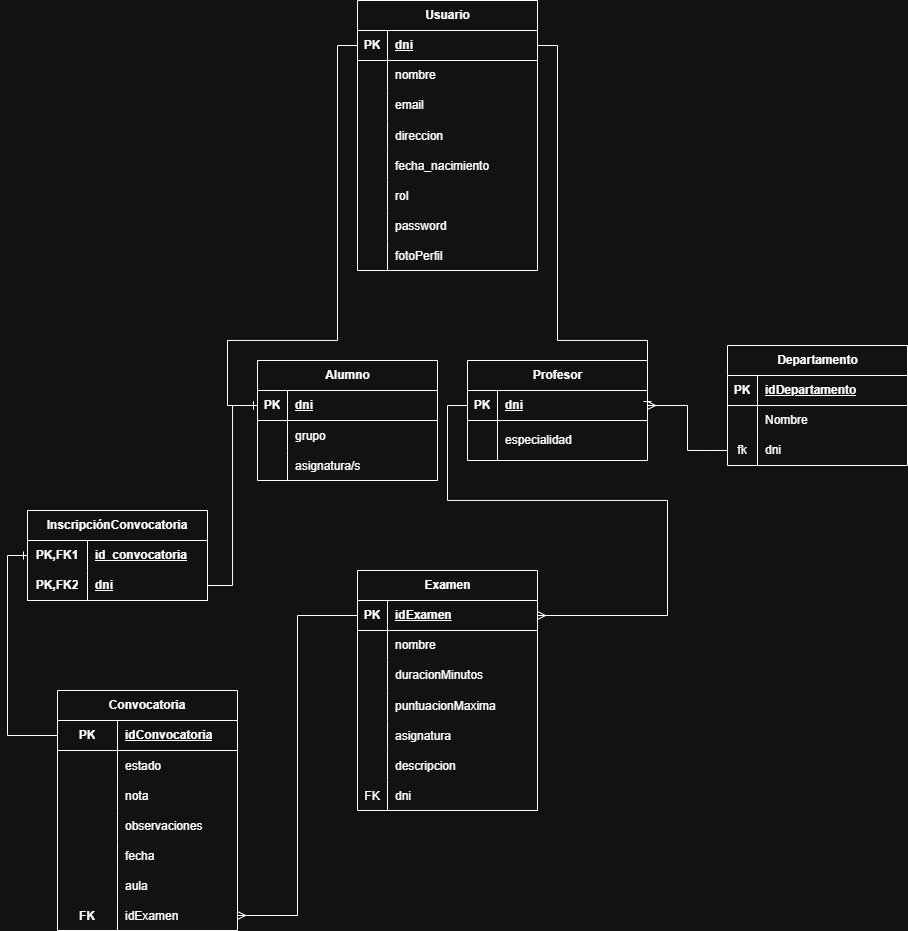
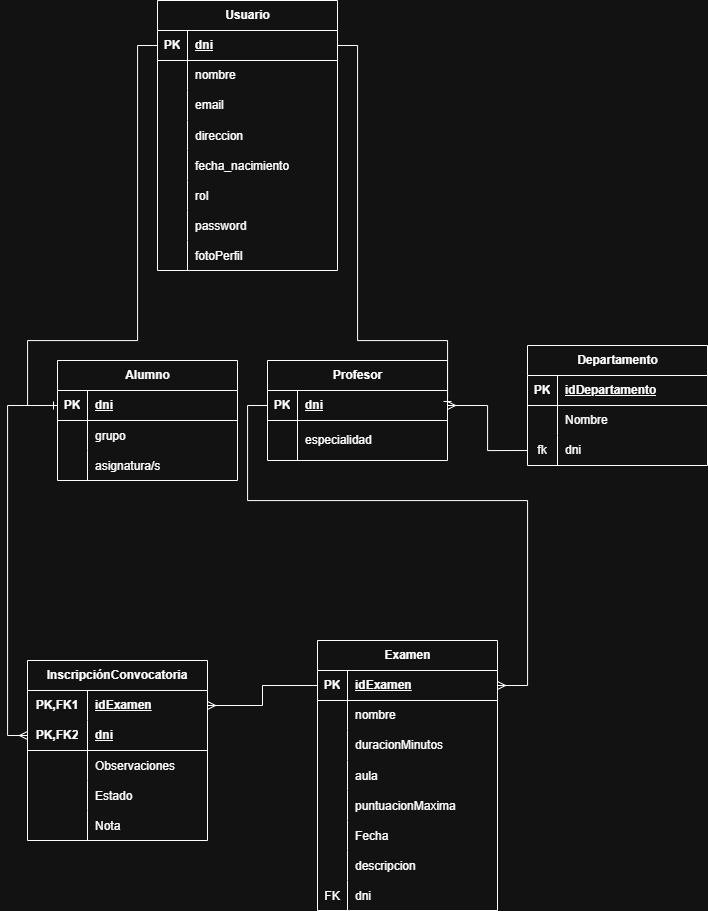
fix: se agrega la asociacion entre profesor y departamento

diff --git a/ExamTrack/src/main/java/com/salesianos/dam/examtrack/model/Departamento.java b/ExamTrack/src/main/java/com/salesianos/dam/examtrack/model/Departamento.java
@@ -1,0 +1,38 @@
+package com.salesianos.dam.examtrack.model;
+
+import java.util.ArrayList;
+import java.util.List;
+
+import jakarta.persistence.Column;
+import jakarta.persistence.Entity;
+import jakarta.persistence.FetchType;
+import jakarta.persistence.GeneratedValue;
+import jakarta.persistence.Id;
+import jakarta.persistence.OneToMany;
+import lombok.AllArgsConstructor;
+import lombok.Builder;
+import lombok.Data;
+import lombok.EqualsAndHashCode;
+import lombok.NoArgsConstructor;
+import lombok.ToString;
+
+@Entity
+@AllArgsConstructor
+@NoArgsConstructor
+@Data
+public class Departamento {
+    
+    @Id
+    @GeneratedValue
+    @Column(nullable = false) 
+    private Long idDepartamento;
+
+    private String nombre;
+
+    @OneToMany (mappedBy = "departamento", fetch = FetchType.EAGER)
+    @EqualsAndHashCode.Exclude
+    @ToString.Exclude
+    private List <Profesor> listaProfesores = new ArrayList<>();
+
+    
+}

diff --git a/ExamTrack/src/main/java/com/salesianos/dam/examtrack/model/Profesor.java b/ExamTrack/src/main/java/com/salesianos/dam/examtrack/model/Profesor.java
@@ -5,6 +5,9 @@ import java.util.List;
 
 import jakarta.persistence.Entity;
 import jakarta.persistence.FetchType;
+import jakarta.persistence.ForeignKey;
+import jakarta.persistence.JoinColumn;
+import jakarta.persistence.ManyToOne;
 import jakarta.persistence.OneToMany;
 import lombok.AllArgsConstructor;
 import lombok.EqualsAndHashCode;
@@ -30,6 +33,25 @@ public class Profesor extends Usuario {
     @OneToMany (mappedBy = "profesor", fetch = FetchType.EAGER)
     @ToString.Exclude
     private List <Examen> examen = new ArrayList<>();
+
+
+    @ManyToOne (fetch = FetchType.EAGER)
+    @JoinColumn (name = "id_departamento",
+        foreignKey = @ForeignKey (name = "fk_departamento_profesor"))
+    private Departamento departamento;
+
+    /*Metodos helpers para la asociacion bidireccional */
+    public void addToDepartamento (Departamento departamento) {
+
+        this.departamento = departamento;
+        departamento.getListaProfesores().add(this);
+    }
+
+    public void removeToProfesor (Profesor profesor) {
+        departamento.getListaProfesores().remove(this);
+        this.departamento = null;
+    }
+
 
     @Override
     public void depurarDatos() {